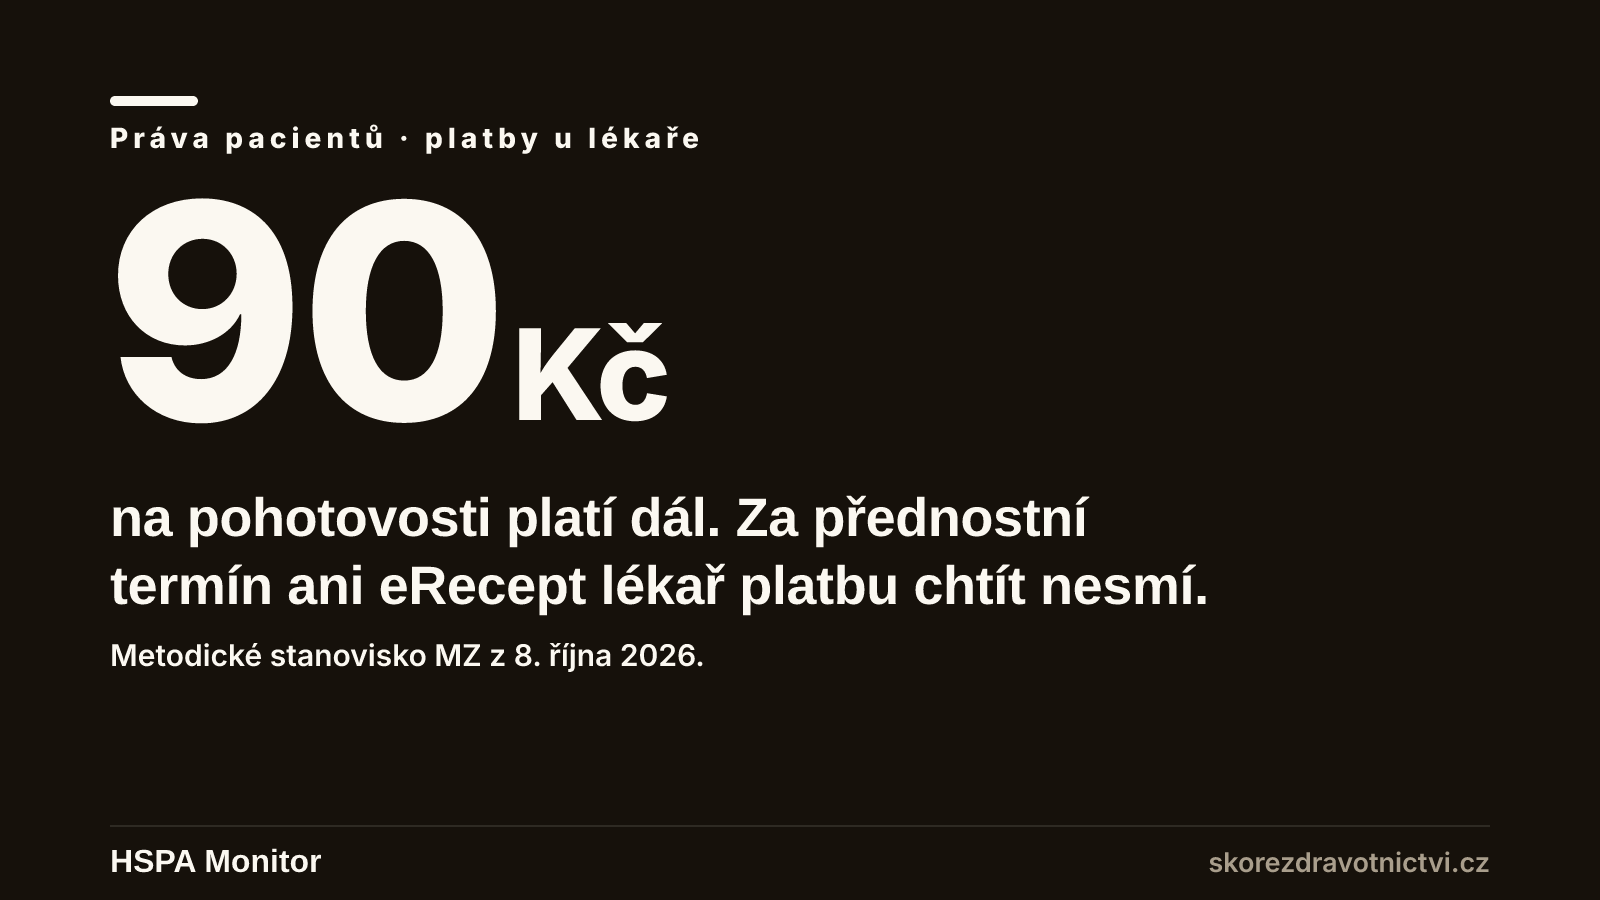
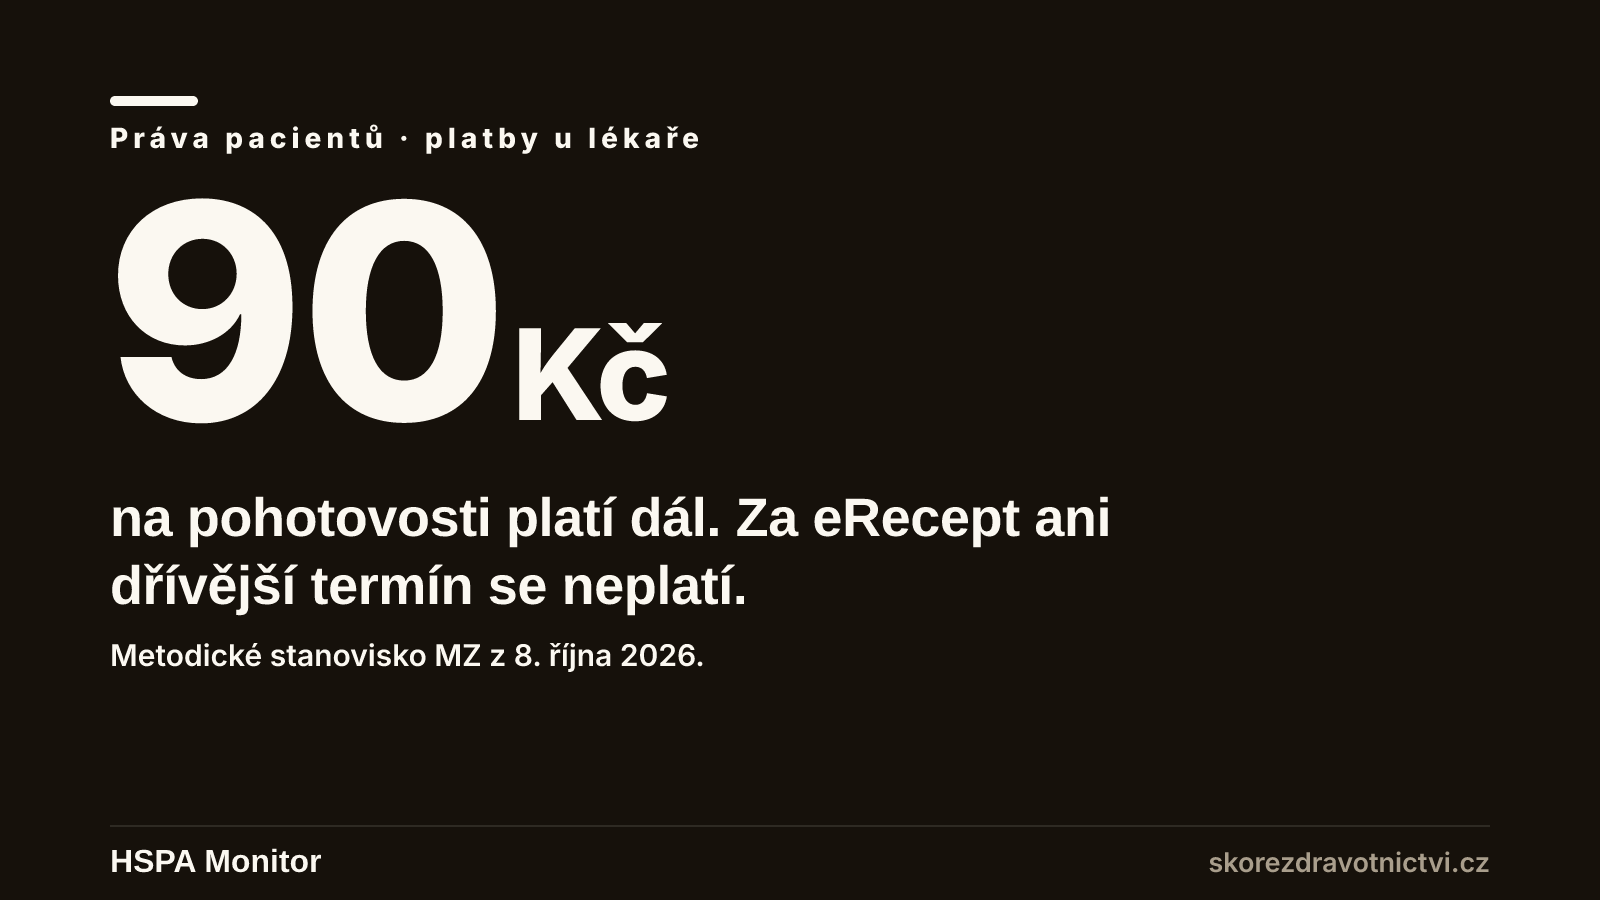
fix(social): přesnější claim karty platby-pacientu (eRecept a dřívější termín)
Claude-Session: https://claude.ai/code/session_01UUXHdt2Y4rrGHgJCWxmpJj

Changed region(s): [[0.0625, 0.56, 0.75, 0.6844]]

diff --git a/05_M1_Starter/scripts/generate-ig-cards.js b/05_M1_Starter/scripts/generate-ig-cards.js
@@ -102,7 +102,7 @@ const MANIFEST = {
   'clanek-platby-pacientu-metodicke-stanovisko-mz-2026': {
     kicker: 'Práva pacientů · platby u lékaře', signal: 'neutral',
     stat: '90', statSuffix: ' Kč',
-    claim: 'na pohotovosti platí dál. Za přednostní termín ani eRecept lékař platbu chtít nesmí.',
+    claim: 'na pohotovosti platí dál. Za eRecept ani dřívější termín se neplatí.',
     context: 'Metodické stanovisko MZ z 8. října 2026.',
   },
   'clanek-konopi-lecebne-390-kilogramu': {
